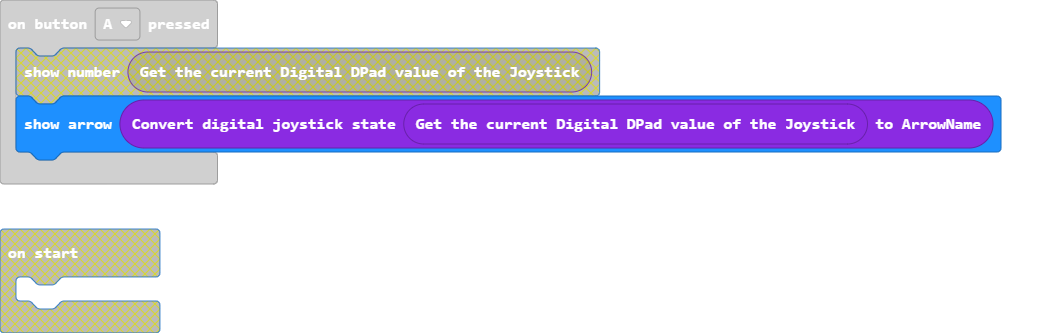
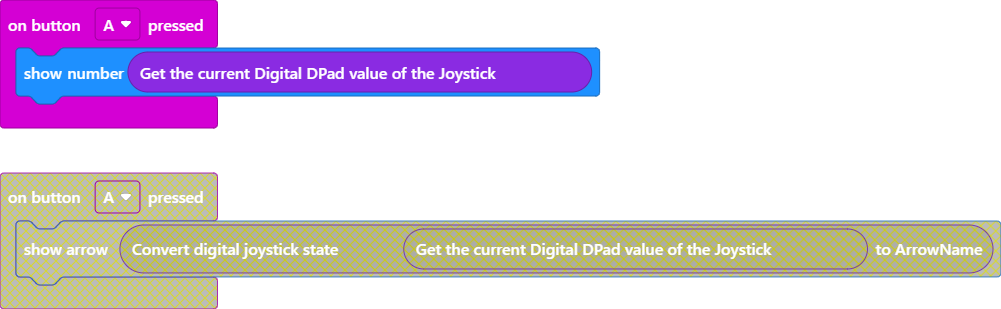
Update pxt.json, main.blocks, main.ts, custom.ts

diff --git a/custom.ts b/custom.ts
@@ -278,6 +278,7 @@ namespace pxt_Valley_EFJSB_Helpers
     {
         switch (joystickState)
         {
+            case joysticDigitalStates.Top: return ArrowNames.North; break;
             case joysticDigitalStates.TopRight: return ArrowNames.NorthEast; break;
             case joysticDigitalStates.Right: return ArrowNames.East; break;
             case joysticDigitalStates.BottomRight: return ArrowNames.SouthEast; break;

diff --git a/main.ts b/main.ts
@@ -1,3 +1,3 @@
 input.onButtonPressed(Button.A, function () {
-    basic.showArrow(pxt_Valley_EFJSB_Helpers.joystickPositionAsArrow(pxt_Valley_EFJSB_Helpers.getDigitalJoystickPosition()))
+    basic.showNumber(pxt_Valley_EFJSB_Helpers.getDigitalJoystickPosition())
 })
